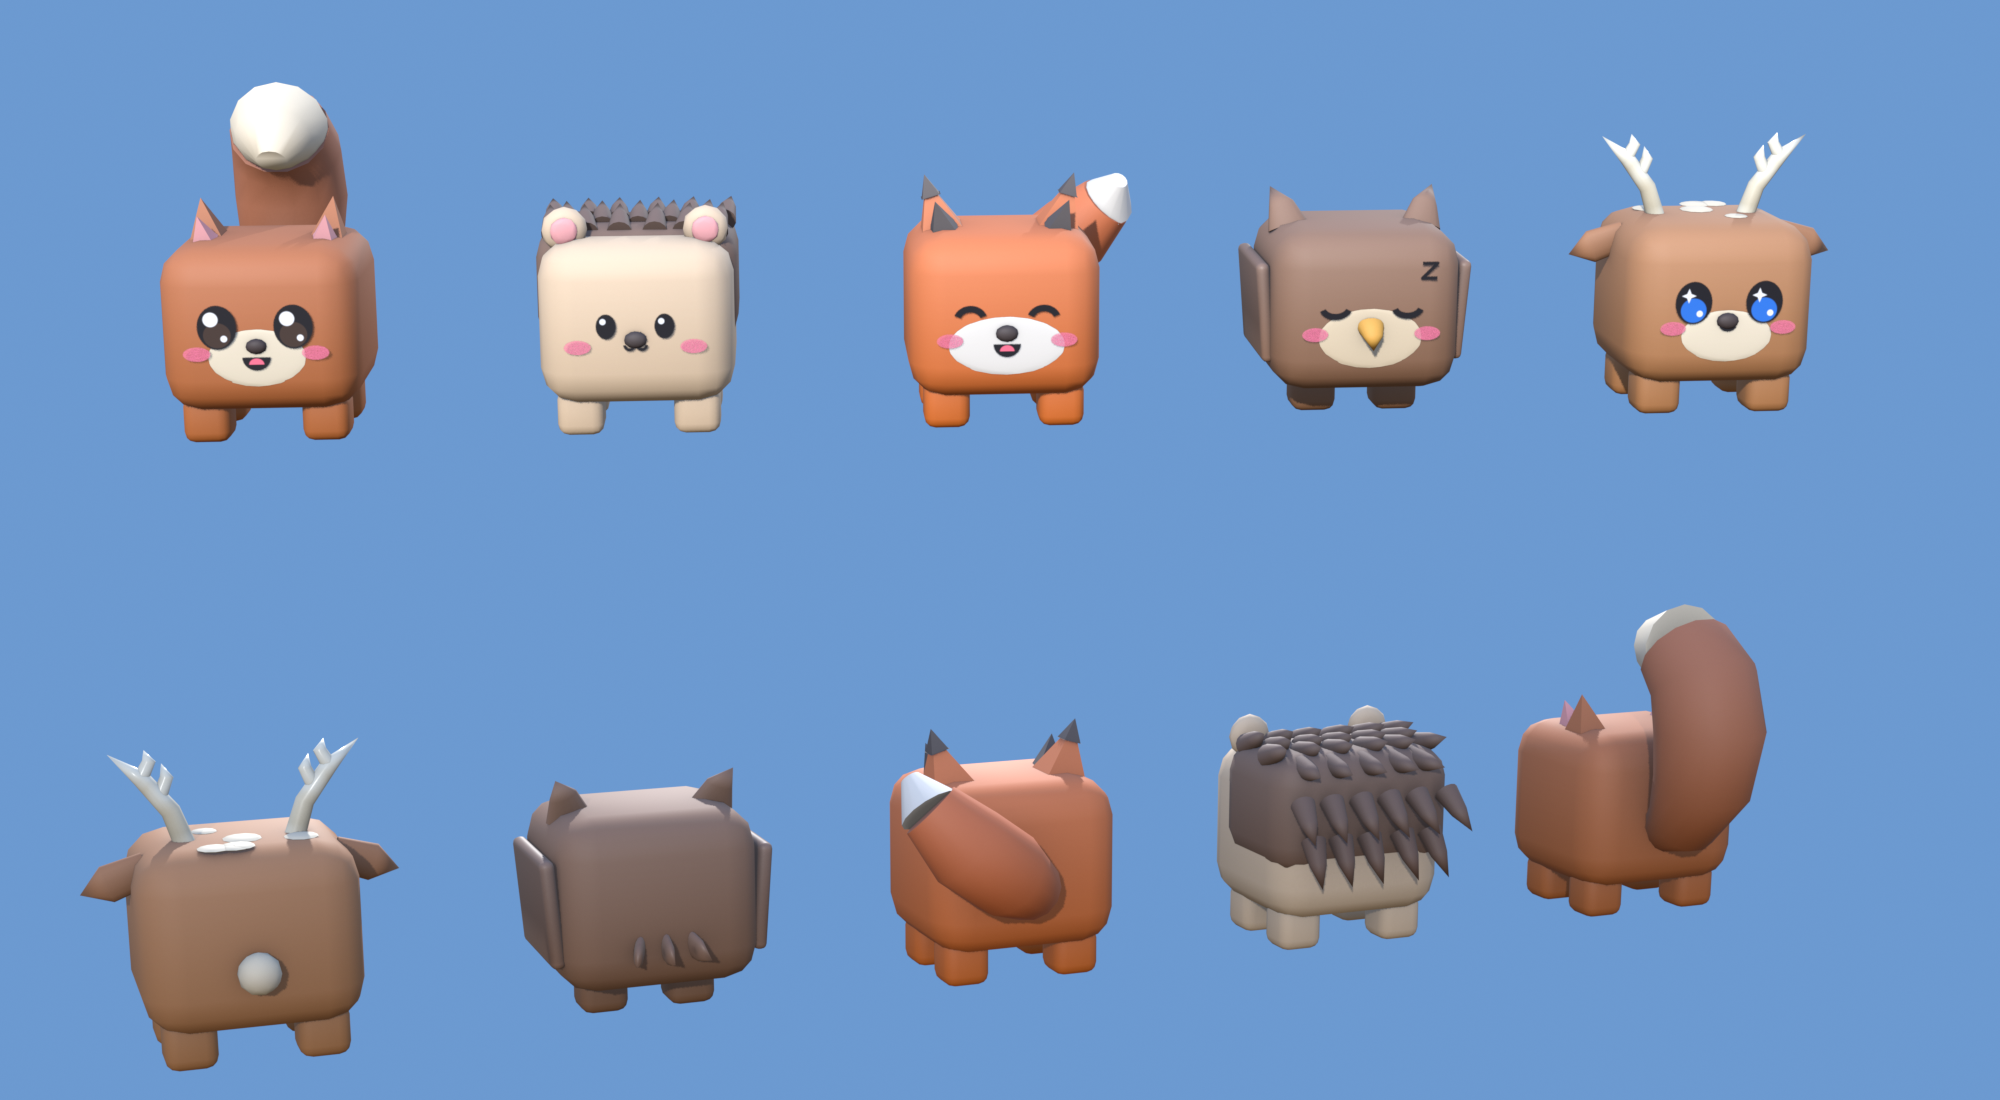
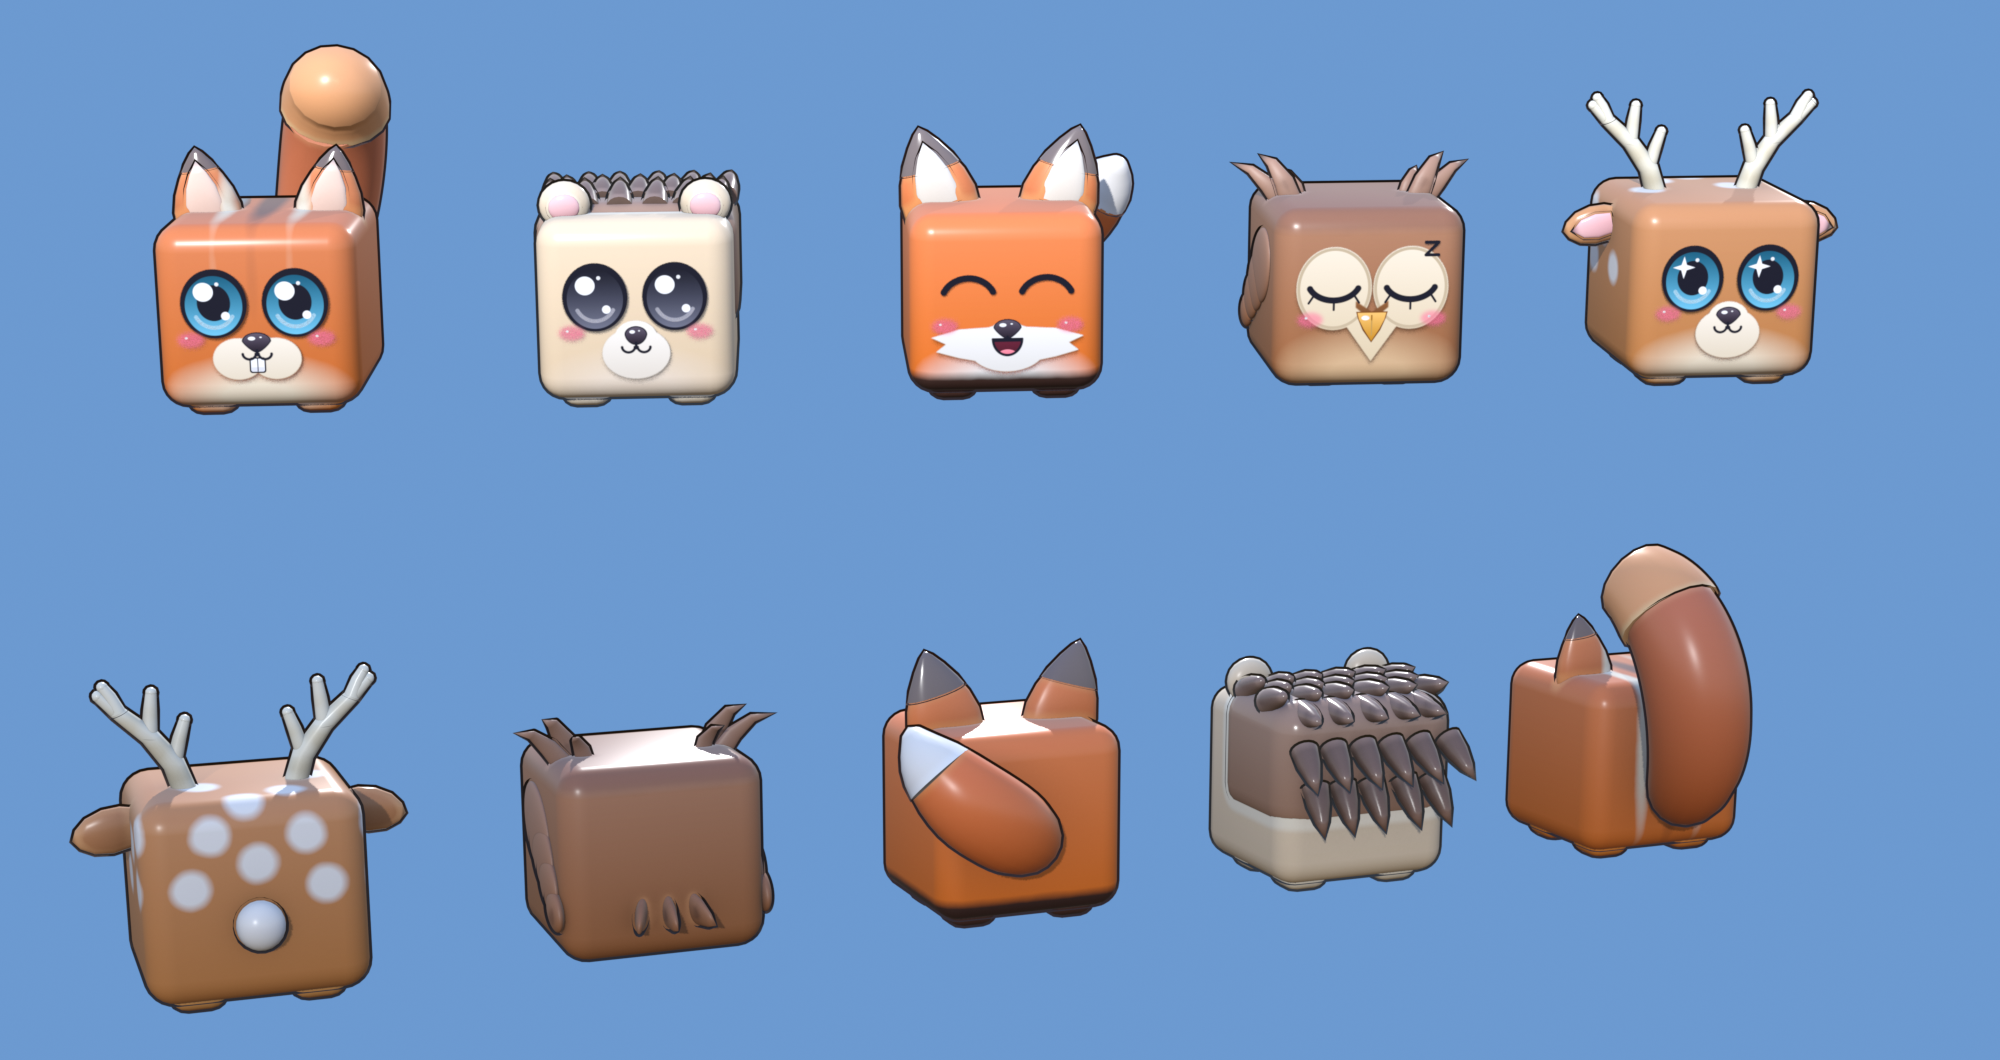
Lift a Sword: pet quality pass (smooth ears and tails, painted markings, shaded faces, outline)

diff --git a/Lift a Sword/Design/Pets.md b/Lift a Sword/Design/Pets.md
@@ -5,11 +5,14 @@ tags: [lift-a-sword, design, pets]
 
 **Roster approved (2026-10-14).** 16 eggs: eggs 1–12 hold 5 pets each and eggs 13–16 hold 6, so 84 pets in all. Back to [[Lift a Sword]].
 
-**Style:** a chunky rounded cube with stubby legs. Only the parts that make each animal are added: ears, horns, wings, tails, halos. The face is one decal texture, not parts. See ![[LS Pet Face Mix.png]]
+**Style:** a chunky rounded cube on tiny nub feet, after your reference pets (2026-10-14). Only the parts that make each animal are added: thick rounded ears with inner ears, horns, wings, smooth tails, halos. Fur markings (socks, bellies, stripes, spots) are painted into the texture, and a thin dark outline goes round the whole pet. The face is painted per pet onto the front, not modelled.
 
 **Size:** every pet has the same body size (you asked for this on 2026-10-14). Animals differ only by their add-ons, and Studio scales all pets by one shared factor.
 
-**Faces:** they aren't all the same. There are 12 face decals, and each pet uses one. Dark pets get a version with a white rim.
+**Faces:** every pet gets its own face PNG, all the same size but not looking the same. The eyes are the same size and spot on every pet (you approved them). Variety comes from:
+- the expression (one of the 12 below), the iris colour and pupils;
+- the muzzle shape: round, puffy rodent cheeks, a fox's white cheeks, an owl's heart-shaped face disc, or a long deer snout;
+- the nose (glossy dog/cat/deer/button nose, pig snout, beak) and buck teeth.
 
 | Face | Look |
 |---|---|
@@ -48,8 +51,8 @@ Rarity in each egg is Common, Uncommon, Rare, Epic, Legendary. Eggs 13–16 add 
 | 16 | VoidEgg | Imp (Wink), Skull Pup (Happy), Shadow Cat (Glow), Hellhound (Flame), Lich Owl (Glow), **Demon Lord** (Flame) |
 
 ## Built
-- ✅ Egg 1 Wooden (2026-10-14): ![[LS Pets Wooden Egg.png]]
-- Builder: `C:\LiftASword\tools\blender\build_pets.py`. Shapes are in `pets/shapes.py`, one roster file per egg is `pets/eggNN_*.py`, and the faces come from `pets/faces.py`. Moving parts (tails, wings) are their own meshes so they can be animated later.
+- ✅ Egg 1 Wooden (2026-10-14, v3 quality pass): ![[LS Pets Wooden Egg.png]]
+- Builder: `C:\LiftASword\tools\blender\build_pets.py`. Shapes are in `pets/shapes.py`, one roster file per egg is `pets/eggNN_*.py`, the faces come from `pets/faces.py`, and fur markings from `pets/marks.py`. Moving parts (tails, wings) are their own meshes so they can be animated later.
 
 ## Open
 - (none) Egg 16 is the Void egg of the new zone 16.

diff --git a/Lift a Sword/Art/Model Pipeline.md b/Lift a Sword/Art/Model Pipeline.md
@@ -22,8 +22,8 @@ How Lift a Sword models get from code to Studio. My taste rules are in [[3D Mode
 | `build_zone_sign.py` | the 16 hanging wooden signs in use: planks on chains from a beam, posts and caps in the zone's material, a gem lamp on each post |
 | `build_landmarks.py` | World 2 portal and group chest. **Flat colours by default** (`--textured` to bake) |
 | `build_props.py` | unused props; kept as a helper source (`drum`, `sector`) |
-| `build_pets.py` | the 84 cube pets. Shapes are in `pets/shapes.py` (body, ears, tails, wings, antlers, spikes…), one roster file per egg is `pets/eggNN_*.py` (registered with `@pet` from `pets/registry.py`), and the face is a `<Pet>_Face` quad textured with a PNG from `pets/faces.py`. Run with `--egg WoodenEgg`, `--preview <png>`, `--back` (3/4 rear view), `--no-export`. The old chibi builder is `build_pets.py.bak-chibi` |
-| `pets/faces.py` | plain Python + Pillow: `python tools/blender/pets/faces.py assets/models/Pets/Faces` writes the 12 faces plus `_Dark` (white rim) versions and `_sheet.png` |
+| `build_pets.py` | the 84 cube pets. Shapes are in `pets/shapes.py` (body, ears, tails, wings, antlers, spikes…), one roster file per egg is `pets/eggNN_*.py` (registered with `@pet` from `pets/registry.py`), and the face is a `<Pet>_Face` quad textured with a per-pet PNG from `pets/faces.py`. Fur markings are a `marks=[...]` list (`pets/marks.py`: `blob`, `below`, `above`), mixed into the colour before the bake. `<Pet>_Outline` is an inverted shell for the dark outline (`OUTLINE = False` turns it off). Run with `--egg WoodenEgg`, `--preview <png>`, `--back` (3/4 rear view), `--no-export`. The old chibi builder is `build_pets.py.bak-chibi` |
+| `pets/faces.py` | plain Python + Pillow: `python tools/blender/pets/faces.py assets/models/Pets/Faces` is run by `build_pets.py`, which writes `Faces/_spec.json` from the registry and gets one `Face_<Pet>.png` per pet (the old shared faces are `faces_v1.py`) |
 
 Each builder works the same way: register a model with its role colours, kinds (texture recipe) and glow roles, then `build()` hardens the normals, bakes (if textured) and `B.export` writes the FBX plus `colors.json`.
 

diff --git a/Lift a Sword/Devlog/Lift a Sword 2026-10-14.md b/Lift a Sword/Devlog/Lift a Sword 2026-10-14.md
@@ -21,3 +21,9 @@ Back to [[Lift a Sword]].
 - **Pets started:** the Wooden egg's five are built and exported. A new pet builder (`build_pets.py` plus `pets/`) makes a cube body with stubby legs and adds the parts that make each animal. The face is one quad carrying the face PNG, from 12 faces (each with a dark-pet version). Tails and wings are separate meshes for animating later. ![[LS Pets Wooden Egg.png]]
 - **Open questions** for you are in [[Lift a Sword Decisions]] (pet look sign-off, face transparency in Studio, pet size).
 - **Pet fixes** (your feedback): the patches are kept inside the flat front, the owl has a rounded beak and soft tufts and tail feathers, and the hedgehog's quills are soft and lie back. All 5 are re-exported.
+- **Pets, quality pass** (after your references: everything except the eyes needed to be better). All 5 Wooden pets are re-exported.
+  - **Shapes:** rounder corners, thick leaf-shaped ears with inner ears and coloured tips, smooth tails (the radius used to step, which made rings), feather tufts for the owl, and branching antlers with rounded tips.
+  - **Fur markings** are painted into the texture (`pets/marks.py`): the squirrel's back stripes, the fox's socks and white chest, the deer's spots, and pale bellies.
+  - **Faces:** the eyes are unchanged. The muzzles are raised shapes per animal: puffy squirrel cheeks, white fox cheeks, an owl face disc, a deer snout. Noses are glossy, mouths have a shaded inside and a tongue, and teeth and beak are shaded.
+  - **Outline:** a dark outline shell, `<Pet>_Outline`. Its CastShadow must be off in Studio.
+  ![[LS Pets Wooden Egg.png]]

diff --git a/Lift a Sword/Art/3D Modelling Preferences.md b/Lift a Sword/Art/3D Modelling Preferences.md
@@ -53,6 +53,13 @@ Default for something new: **ask which way you want it.** If you're busy, use te
 - **Use my judgement:** "do what you think is best". Make the call, show it, and note it here.
 - **You import the FBX files yourself** (the Studio 3D importer). I then scale, colour, place and anchor them through the Studio MCP and tell you exactly which files to import.
 
+## Pets: what you asked for (2026-10-14)
+- **References:** cube pets with huge glossy eyes, painted muzzles and snouts, ears/horns/antlers on top, vivid glossy colours, dark outlines, tiny or no feet. "THESE ARE REFERENCES I WANT OUR PETS TO BE HIGHER QUALITY".
+- **Eyes:** big and the same size on every pet ("make sure the faces are sizing up, the eyes more defintely"). The current glossy eyes are approved.
+- **Faces:** "the faces should all be sized the same, but not look the same". Same layout, different expression, muzzle, nose and colours.
+- **Nose and mouth must be big** ("resize the faces too, these look tiny").
+- **Everything except the eyes** needed to be "higher quality and just better". The fix was smooth, thick add-ons (no 4-sided pyramids), inner ears, painted markings instead of stuck-on parts, shaded muzzles and noses, and an outline.
+
 ## Rejected (don't repeat)
 - **Chibi pets** (round bodies, big eyes, blush) for Lift a Sword: "we don't want pets like that" (2026-10-13). For Frog Hop: "I need it to look like an actual roblox pet, I'll send references". (Superseded 2026-10-14: the cube-pet style is chosen, see [[Pets]].)
 - **Pet details that look stuck on** (2026-10-14, "these dont look right"):

diff --git a/Lift a Sword/Lift a Sword Decisions.md b/Lift a Sword/Lift a Sword Decisions.md
@@ -6,7 +6,9 @@ tags: [lift-a-sword, planning, decisions]
 Things I need from you, newest first. Back to [[Lift a Sword]].
 
 ## Open
-- **Wooden egg pets (first 5):** Squirrel, Hedgehog, Fox, Owl, Deer, front and back: ![[LS Pets Wooden Egg.png]] Is this the look to roll out to all 84? I'm carrying on with the same style for the next eggs, so stop me early if anything's off.
+- **Wooden egg pets (first 5), quality pass:** Squirrel, Hedgehog, Fox, Owl, Deer, front and back: ![[LS Pets Wooden Egg.png]] The eyes are as you approved them. Everything else is new: smooth ears with inner ears, painted fur markings, shaded muzzles and noses, smooth tails, and a dark outline. Is this the look to roll out to all 84?
+- **Pet outline:** a `<Pet>_Outline` part (an inverted shell) draws the dark outline like your references. In Studio turn its **CastShadow off**, or the pet goes dark. If you'd rather have no outline, delete that part.
+- **Owl wings:** they're folded flat against the sides. They could be little spread wings instead, if you'd like the owl to read as a bird from the front.
 - **Pet faces in Studio:** each pet has a `<Pet>_Face` quad textured with its face PNG. If the import drops the transparency, set the quad's SurfaceAppearance `AlphaMode` to Transparency, or I can switch it to a Decal. Tell me which looks better once you've imported one.
 - **Pet size in game:** about 3 studs tall following the player? (assumed; Studio scales the model)
 - **World 2 zone count:** 15 like World 1? (assumed for now)
